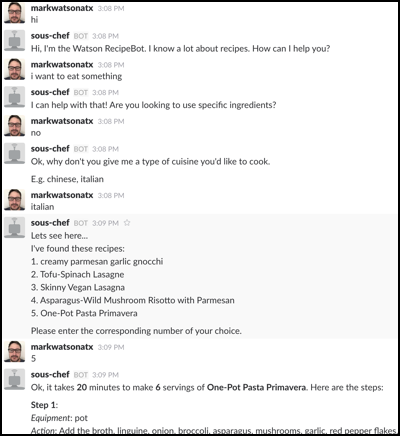
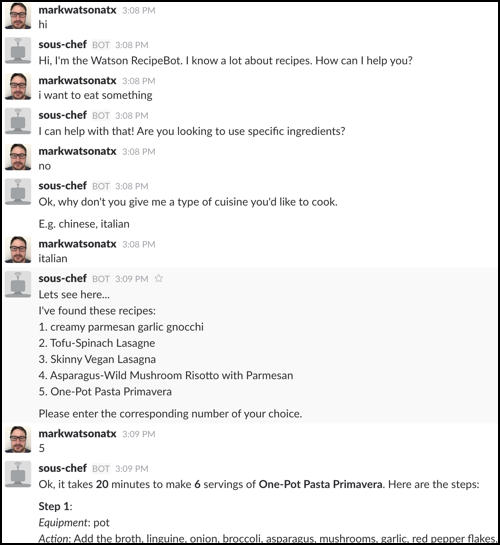
Updated screenshots

diff --git a/README.md b/README.md
@@ -291,8 +291,10 @@ To verify that your bot is running open Slack and start a direct conversation wi
 
 ![sous-chef](screenshots/sous-chef1.png?rev=1&raw=true)
 
-Here are some conversations you can have with the bot:
+Here are some sample conversations you can have with the bot:
 
-![sous-chef](screenshots/sous-chef-convo1.png?rev=2&raw=true)
-![sous-chef](screenshots/sous-chef-convo2.png?rev=2&raw=true)
-![sous-chef](screenshots/sous-chef-convo3.png?rev=2&raw=true)
+![sous-chef](screenshots/sous-chef-convo1.png?rev=3&raw=true)
+
+![sous-chef](screenshots/sous-chef-convo2.png?rev=3&raw=true)
+
+![sous-chef](screenshots/sous-chef-convo3.png?rev=3&raw=true)
